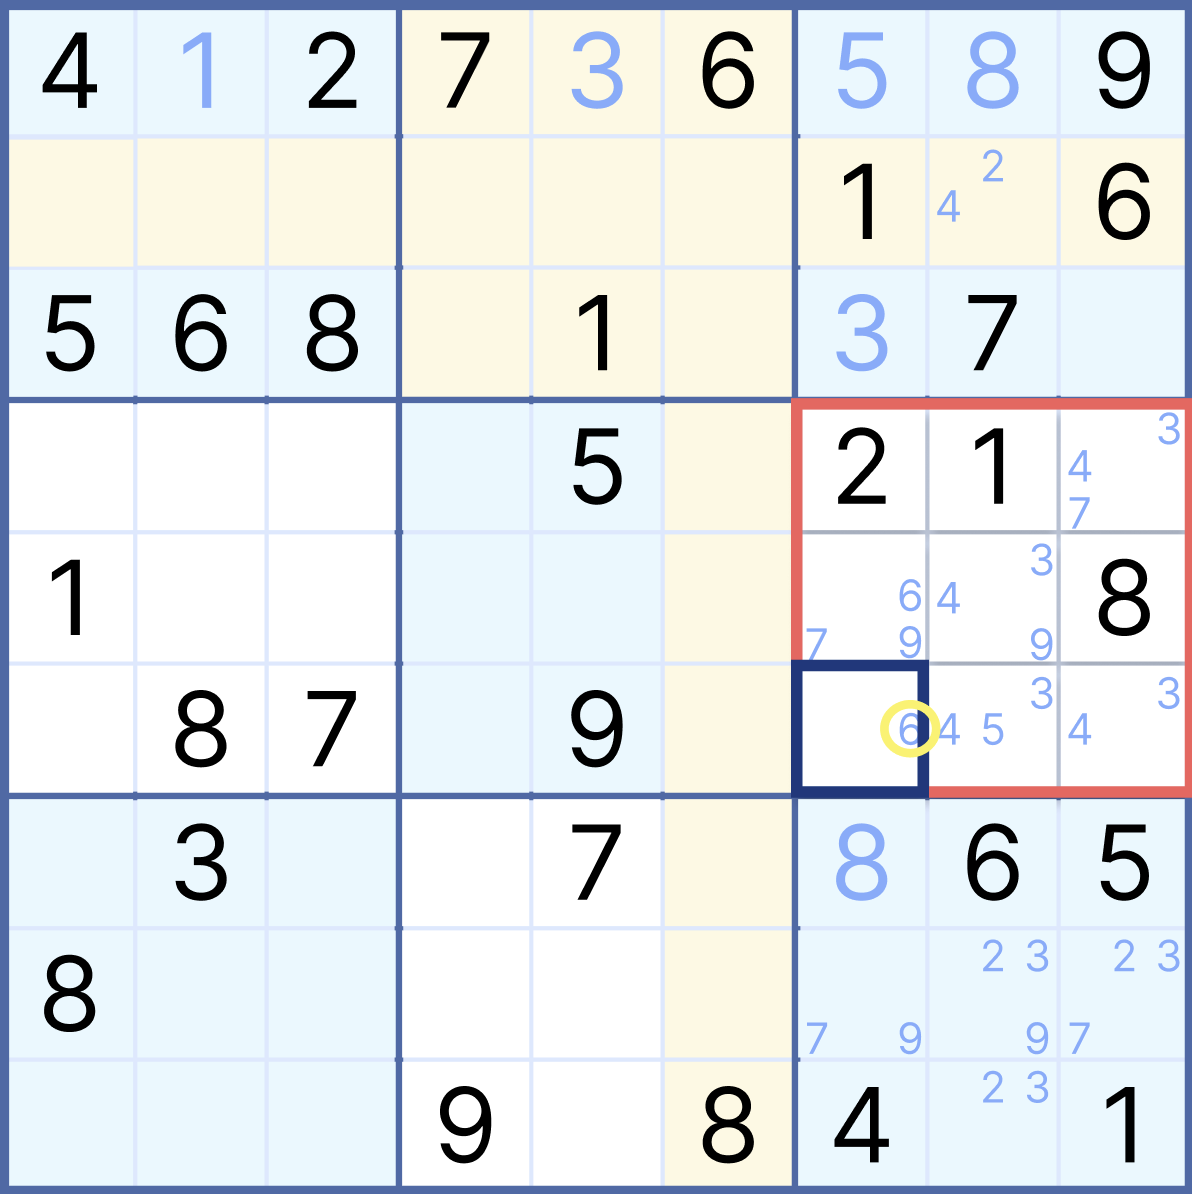
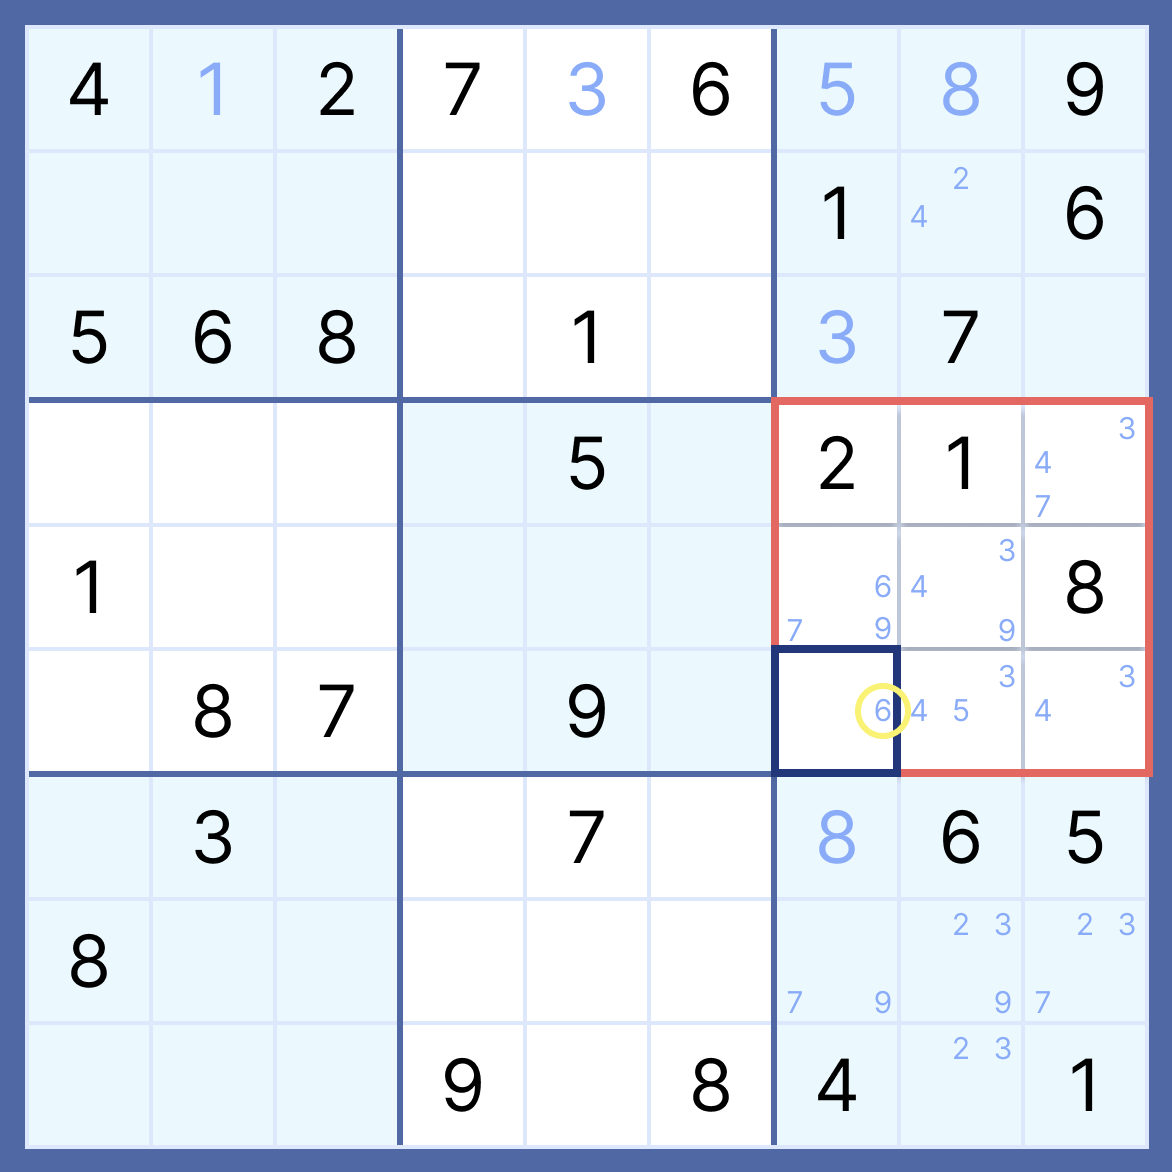
Added all strategy illustrations and changed their size. Removed captions for now.

diff --git a/front-end/pages/strategy-page/strategytexts.html b/front-end/pages/strategy-page/strategytexts.html
@@ -18,7 +18,7 @@
                         there is no advanced pattern detection that is required.</p>
                     <figure class="strategyIllustrations">
                         <img src="illustrations/NakedSingle.png">
-                        <figcaption class="strategyIllustrationCaptions">Caption</figcaption>
+                        <figcaption class="strategyIllustrationCaptions"> </figcaption>
                     </figure>
                 </div>
             </li>
@@ -41,7 +41,7 @@
                     </p>
                     <figure class="strategyIllustrations">
                         <img src="illustrations/HiddenSingle.png">
-                        <figcaption class="strategyIllustrationCaptions">Caption</figcaption>
+                        <figcaption class="strategyIllustrationCaptions"> </figcaption>
                     </figure>
                 </div>
             </li>
@@ -57,7 +57,7 @@
                         outside the box.</p>
                     <figure class="strategyIllustrations">
                         <img src="illustrations/LockedCandidates.png">
-                        <figcaption class="strategyIllustrationCaptions">Caption</figcaption>
+                        <figcaption class="strategyIllustrationCaptions"> </figcaption>
                     </figure>
                 </div>
             </li>
@@ -75,7 +75,7 @@
                         column, or box.</p>
                     <figure class="strategyIllustrations">
                         <img src="illustrations/NakedPair.png">
-                        <figcaption class="strategyIllustrationCaptions">Caption</figcaption>
+                        <figcaption class="strategyIllustrationCaptions"> </figcaption>
                     </figure>
                 </div>
             </li>
@@ -89,7 +89,7 @@
                         scanning by number instead of by cell.</p>
                     <figure class="strategyIllustrations">
                         <img src="illustrations/HiddenPair.png">
-                        <figcaption class="strategyIllustrationCaptions">Caption</figcaption>
+                        <figcaption class="strategyIllustrationCaptions"> </figcaption>
                     </figure>
                 </div>
             </li>
@@ -104,7 +104,7 @@
                         the unit. This concept is based on Naked Pairs.</p>
                     <figure class="strategyIllustrations">
                         <img src="illustrations/NakedTriple.png">
-                        <figcaption class="strategyIllustrationCaptions">Caption</figcaption>
+                        <figcaption class="strategyIllustrationCaptions"> </figcaption>
                     </figure>
                 </div>
             </li>
@@ -122,7 +122,7 @@
                         possible candidates, than a Naked Triple.</p>
                     <figure class="strategyIllustrations">
                         <img src="illustrations/HiddenTriple.png">
-                        <figcaption class="strategyIllustrationCaptions">Caption</figcaption>
+                        <figcaption class="strategyIllustrationCaptions"> </figcaption>
                     </figure>
                 </div>
             </li>
@@ -148,7 +148,7 @@
                         eliminations, they are symmetrical.</p>
                     <figure class="strategyIllustrations">
                         <img src="illustrations/XWing.png">
-                        <figcaption class="strategyIllustrationCaptions">Caption</figcaption>
+                        <figcaption class="strategyIllustrationCaptions"> </figcaption>
                     </figure>
                 </div>
             </li>
@@ -165,7 +165,7 @@
                     </p>
                     <figure class="strategyIllustrations">
                         <img src="illustrations/XYWing.png">
-                        <figcaption class="strategyIllustrationCaptions">Caption</figcaption>
+                        <figcaption class="strategyIllustrationCaptions"> </figcaption>
                     </figure>
                 </div>
             </li>
@@ -184,7 +184,7 @@
                         than XY-Wing.</p>
                     <figure class="strategyIllustrations">
                         <img src="illustrations/XYZWing.png">
-                        <figcaption class="strategyIllustrationCaptions">Caption</figcaption>
+                        <figcaption class="strategyIllustrationCaptions"> </figcaption>
                     </figure>
                 </div>
             </li>
@@ -199,7 +199,7 @@
                         shared candidate. What it does is that it combines pair logic with chain reasoning.</p>
                     <figure class="strategyIllustrations">
                         <img src="illustrations/WWing.png">
-                        <figcaption class="strategyIllustrationCaptions">Caption</figcaption>
+                        <figcaption class="strategyIllustrationCaptions"> </figcaption>
                     </figure>
                 </div>
             </li>
@@ -217,7 +217,7 @@
                         cells alternatively, chains of possibilities are created.</p>
                     <figure class="strategyIllustrations">
                         <img src="illustrations/SimpleColoring.png">
-                        <figcaption class="strategyIllustrationCaptions">Caption</figcaption>
+                        <figcaption class="strategyIllustrationCaptions"> </figcaption>
                     </figure>
                 </div>
             </li>
@@ -232,7 +232,7 @@
                         true. If there is a weak link, then both candidates cannot be true at the same time.</p>
                     <figure class="strategyIllustrations">
                         <img src="illustrations/AIC.png">
-                        <figcaption class="strategyIllustrationCaptions">Caption</figcaption>
+                        <figcaption class="strategyIllustrationCaptions"> </figcaption>
                     </figure>
                 </div>
             </li>
@@ -248,7 +248,7 @@
                         structured; it is done without guessing.</p>
                     <figure class="strategyIllustrations">
                         <img src="illustrations/ForcingChains.png">
-                        <figcaption class="strategyIllustrationCaptions">Caption</figcaption>
+                        <figcaption class="strategyIllustrationCaptions"> </figcaption>
                     </figure>
                 </div>
             </li>
@@ -263,7 +263,7 @@
                         patterns. They allow for complex eliminations.</p>
                     <figure class="strategyIllustrations">
                         <img src="illustrations/ALS.png">
-                        <figcaption class="strategyIllustrationCaptions">Caption</figcaption>
+                        <figcaption class="strategyIllustrationCaptions"> </figcaption>
                     </figure>
                 </div>
             </li>
@@ -278,7 +278,7 @@
                     </p>
                     <figure class="strategyIllustrations">
                         <img src="illustrations/SueDeCoq.png">
-                        <figcaption class="strategyIllustrationCaptions">Caption</figcaption>
+                        <figcaption class="strategyIllustrationCaptions"> </figcaption>
                     </figure>
                 </div>
             </li>
@@ -296,7 +296,7 @@
                         columns. This involves reviewing several units.</p>
                     <figure class="strategyIllustrations">
                         <img src="illustrations/Swordfish.png">
-                        <figcaption class="strategyIllustrationCaptions">Caption</figcaption>
+                        <figcaption class="strategyIllustrationCaptions"> </figcaption>
                     </figure>
                 </div>
             </li>
@@ -311,7 +311,7 @@
                     </p>
                     <figure class="strategyIllustrations">
                         <img src="illustrations/Jellyfish.png">
-                        <figcaption class="strategyIllustrationCaptions">Caption</figcaption>
+                        <figcaption class="strategyIllustrationCaptions"> </figcaption>
                     </figure>
                 </div>
             </li>

diff --git a/front-end/pages/strategy-page/strategy.css b/front-end/pages/strategy-page/strategy.css
@@ -88,7 +88,7 @@ a:active {
 
 /* Illustration size */
 .strategyIllustrations img {
-    width: 200px;
+    width: 400px;
 }
 
 /* Tooltip */
